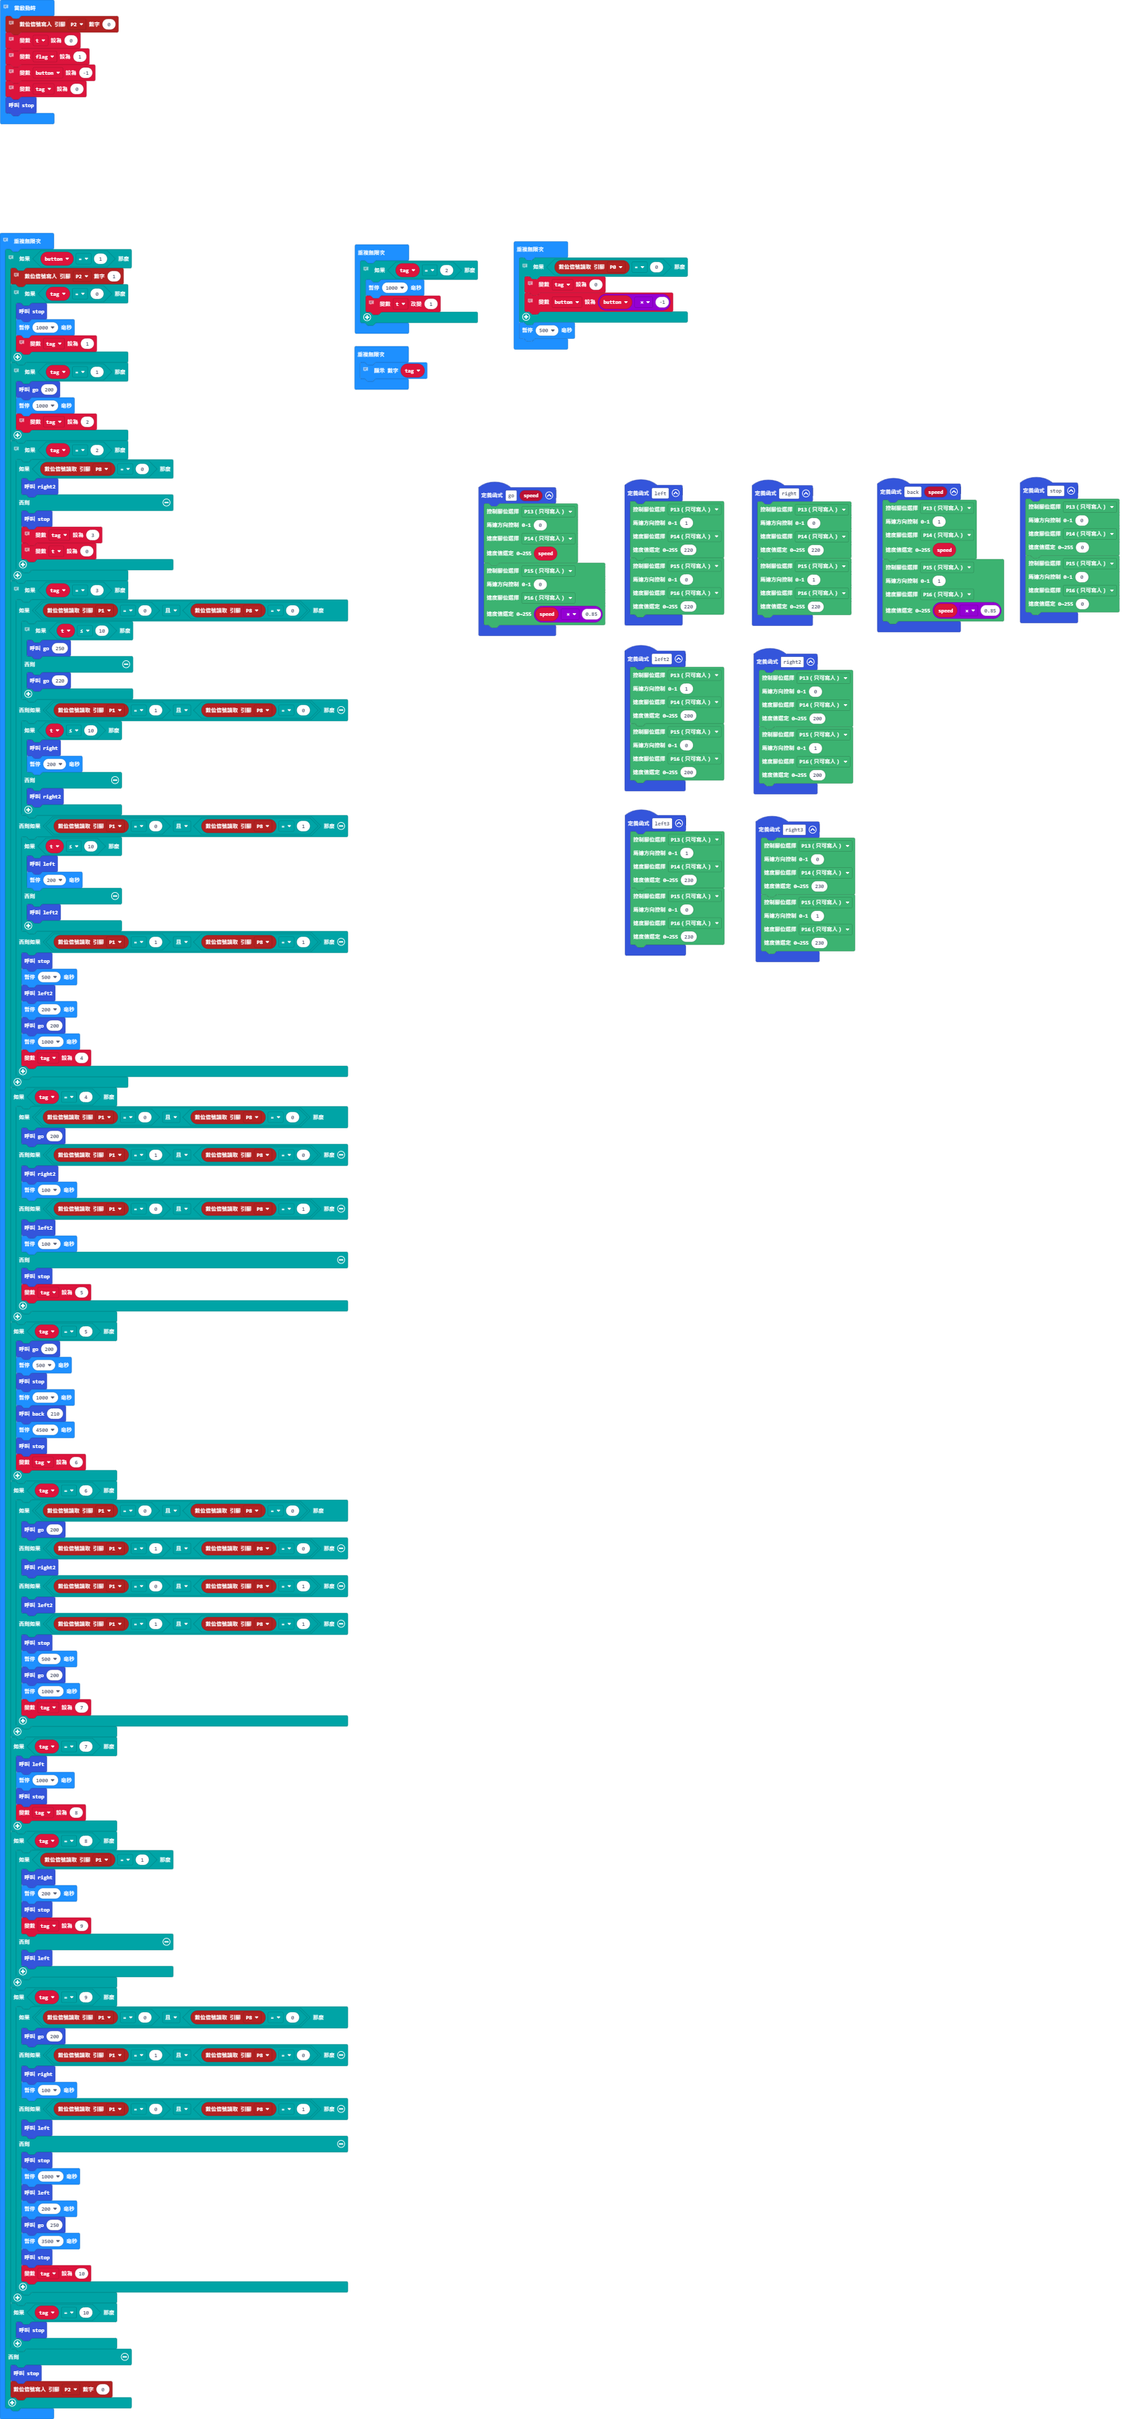
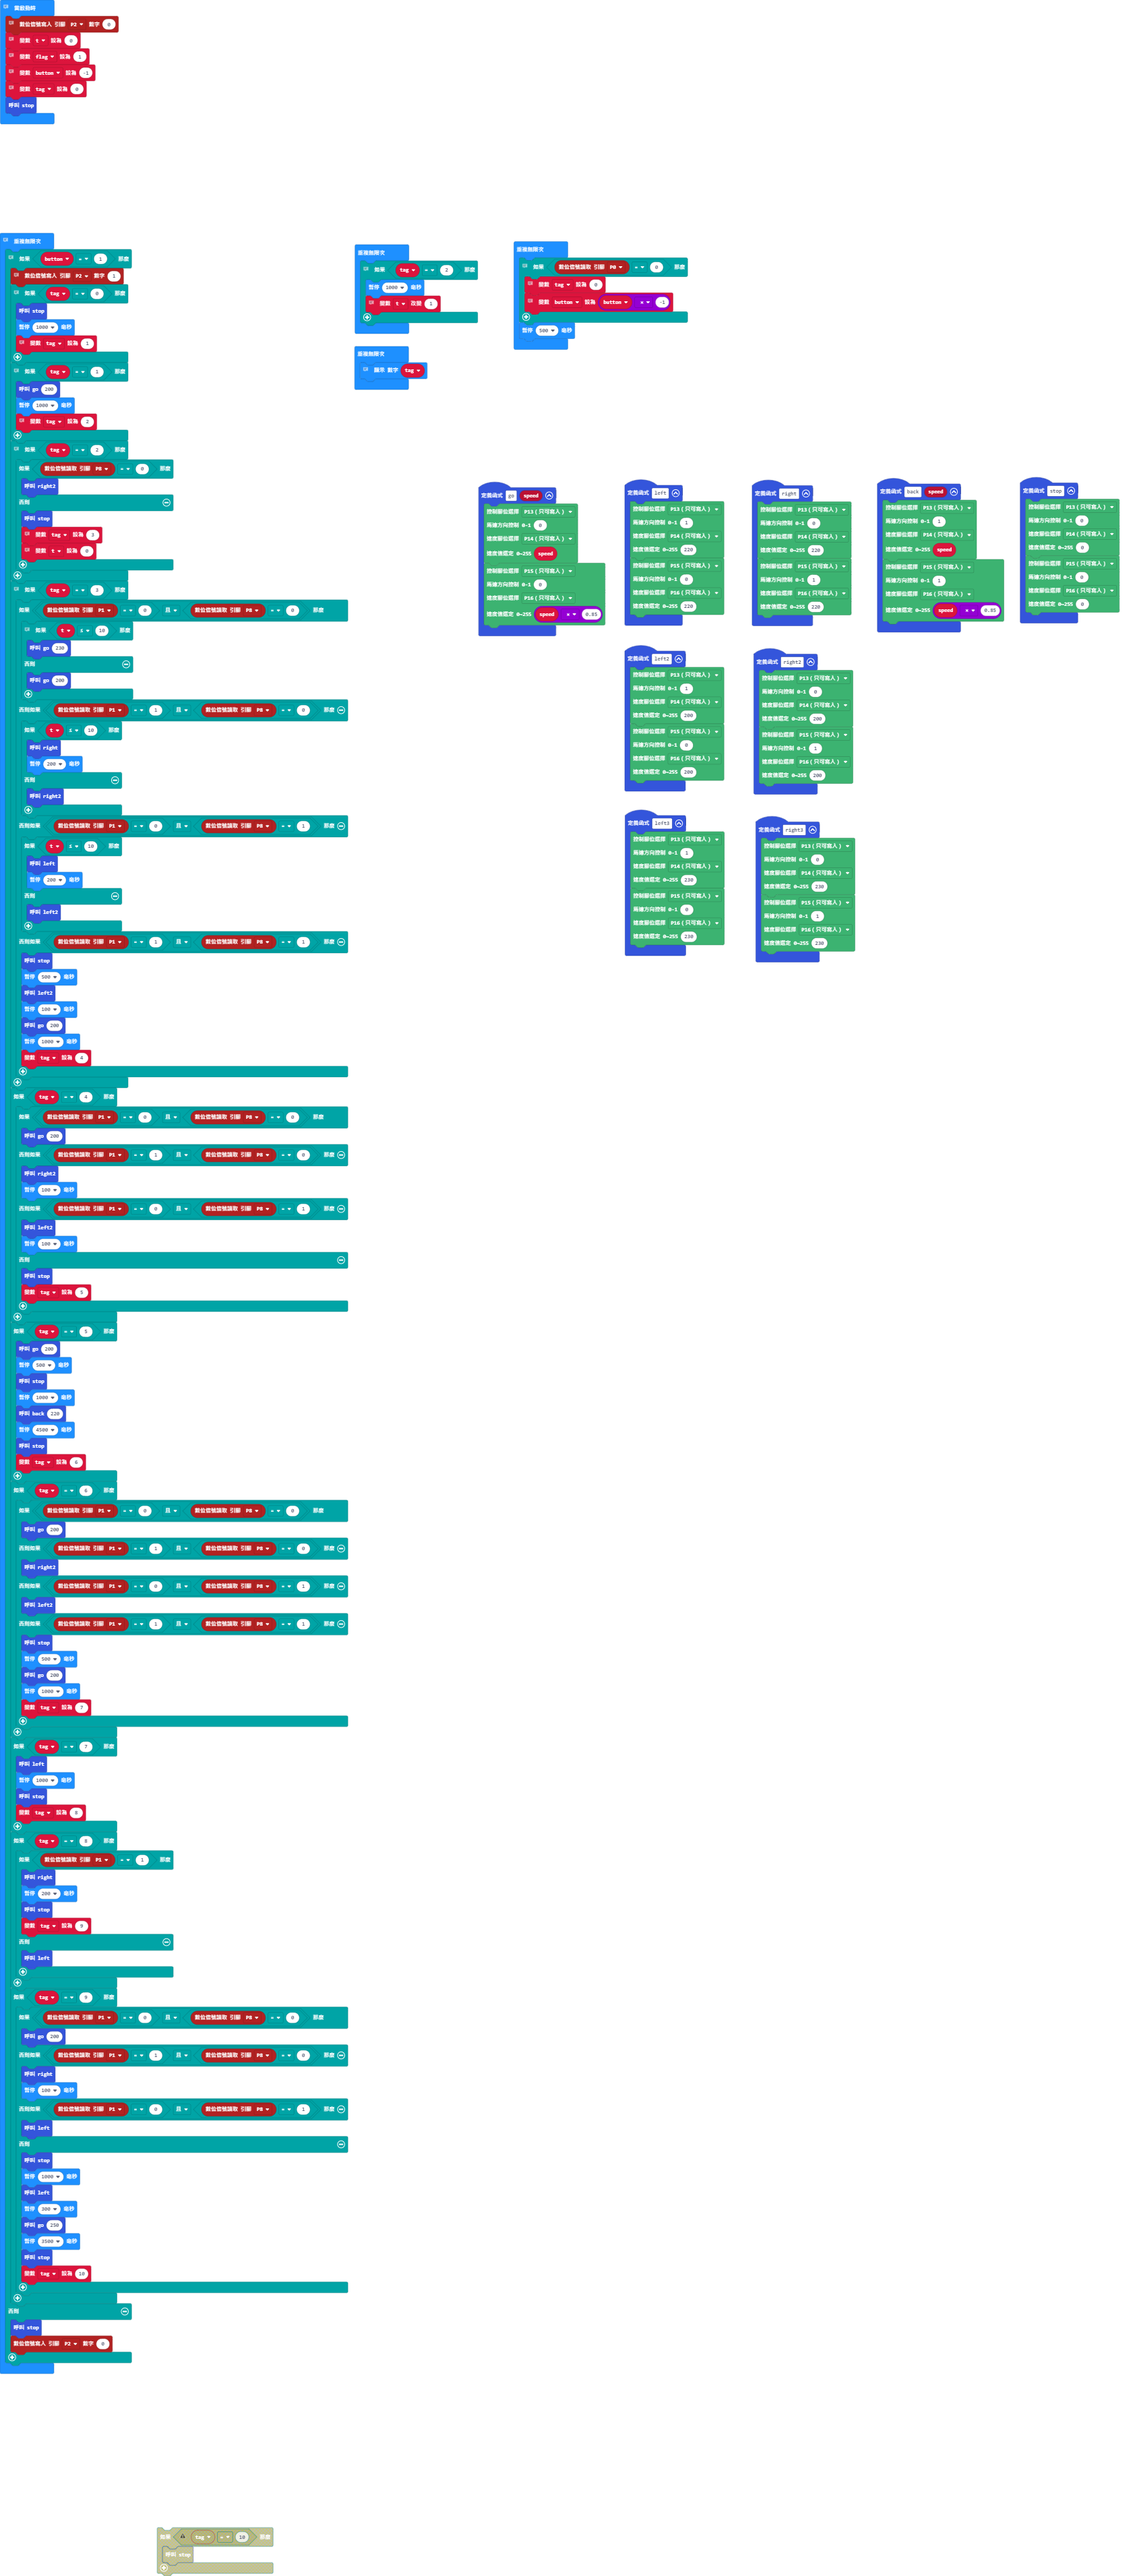
Update main.blocks, main.ts

Changed region(s): [[0.0, 0.0, 0.3082, 1.0], [0.4007, 0.1872, 0.9864, 0.4056], [0.3082, 0.0936, 0.6165, 0.1872]]

diff --git a/main.ts b/main.ts
@@ -173,9 +173,9 @@ basic.forever(function () {
             if (pins.digitalReadPin(DigitalPin.P1) == 0 && pins.digitalReadPin(DigitalPin.P8) == 0) {
                 // 時間變數t可調整至適當時間
                 if (t <= 10) {
-                    go(250)
+                    go(230)
                 } else {
-                    go(220)
+                    go(200)
                 }
             } else if (pins.digitalReadPin(DigitalPin.P1) == 1 && pins.digitalReadPin(DigitalPin.P8) == 0) {
                 if (t <= 10) {
@@ -195,7 +195,7 @@ basic.forever(function () {
                 stop()
                 basic.pause(500)
                 left2()
-                basic.pause(200)
+                basic.pause(100)
                 go(200)
                 basic.pause(1000)
                 tag = 4
@@ -220,7 +220,7 @@ basic.forever(function () {
             basic.pause(500)
             stop()
             basic.pause(1000)
-            back(210)
+            back(220)
             basic.pause(4500)
             stop()
             tag = 6
@@ -268,15 +268,12 @@ basic.forever(function () {
                 stop()
                 basic.pause(1000)
                 left()
-                basic.pause(200)
+                basic.pause(300)
                 go(250)
                 basic.pause(3500)
                 stop()
                 tag = 10
             }
-        }
-        if (tag == 10) {
-            stop()
         }
     } else {
         stop()
